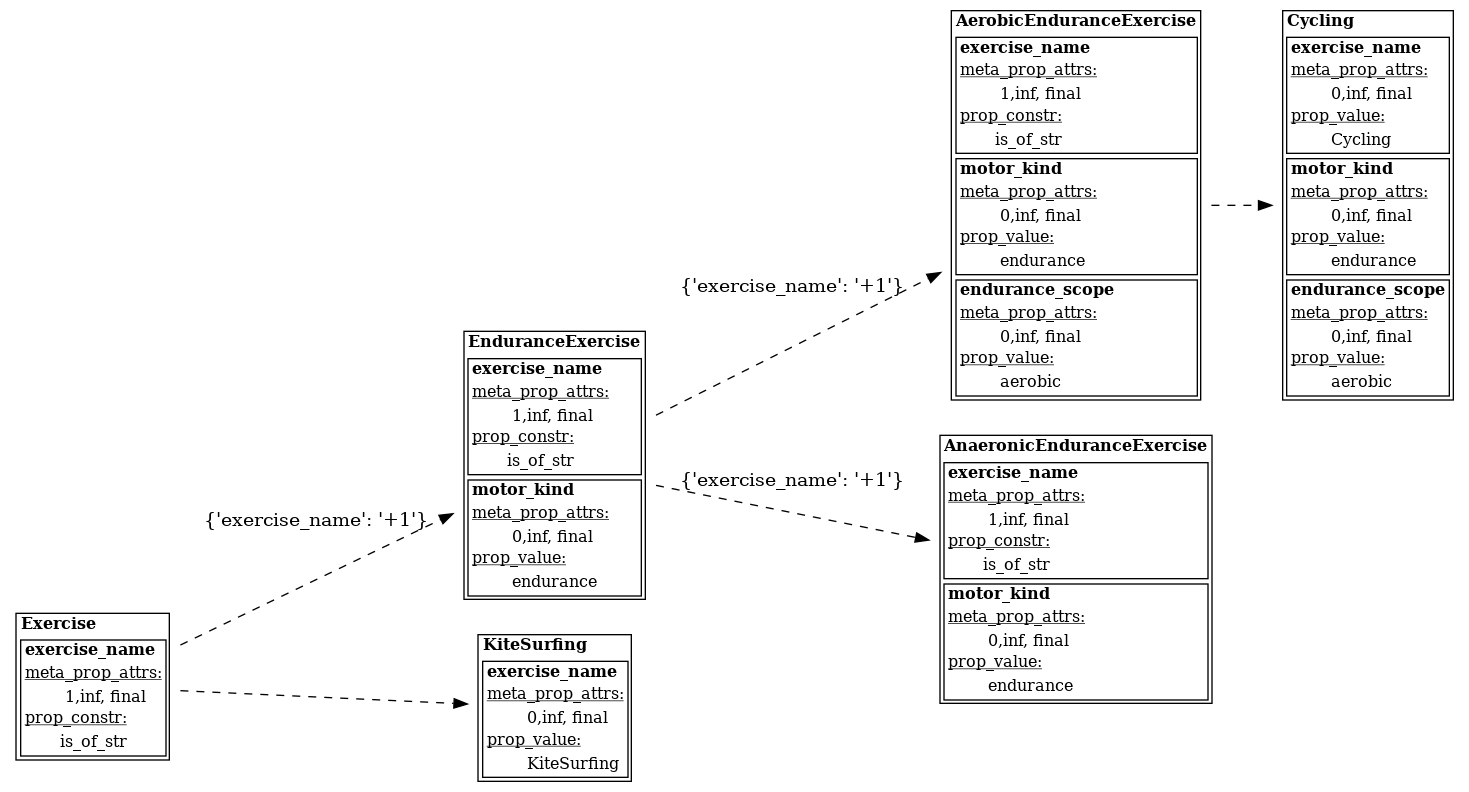
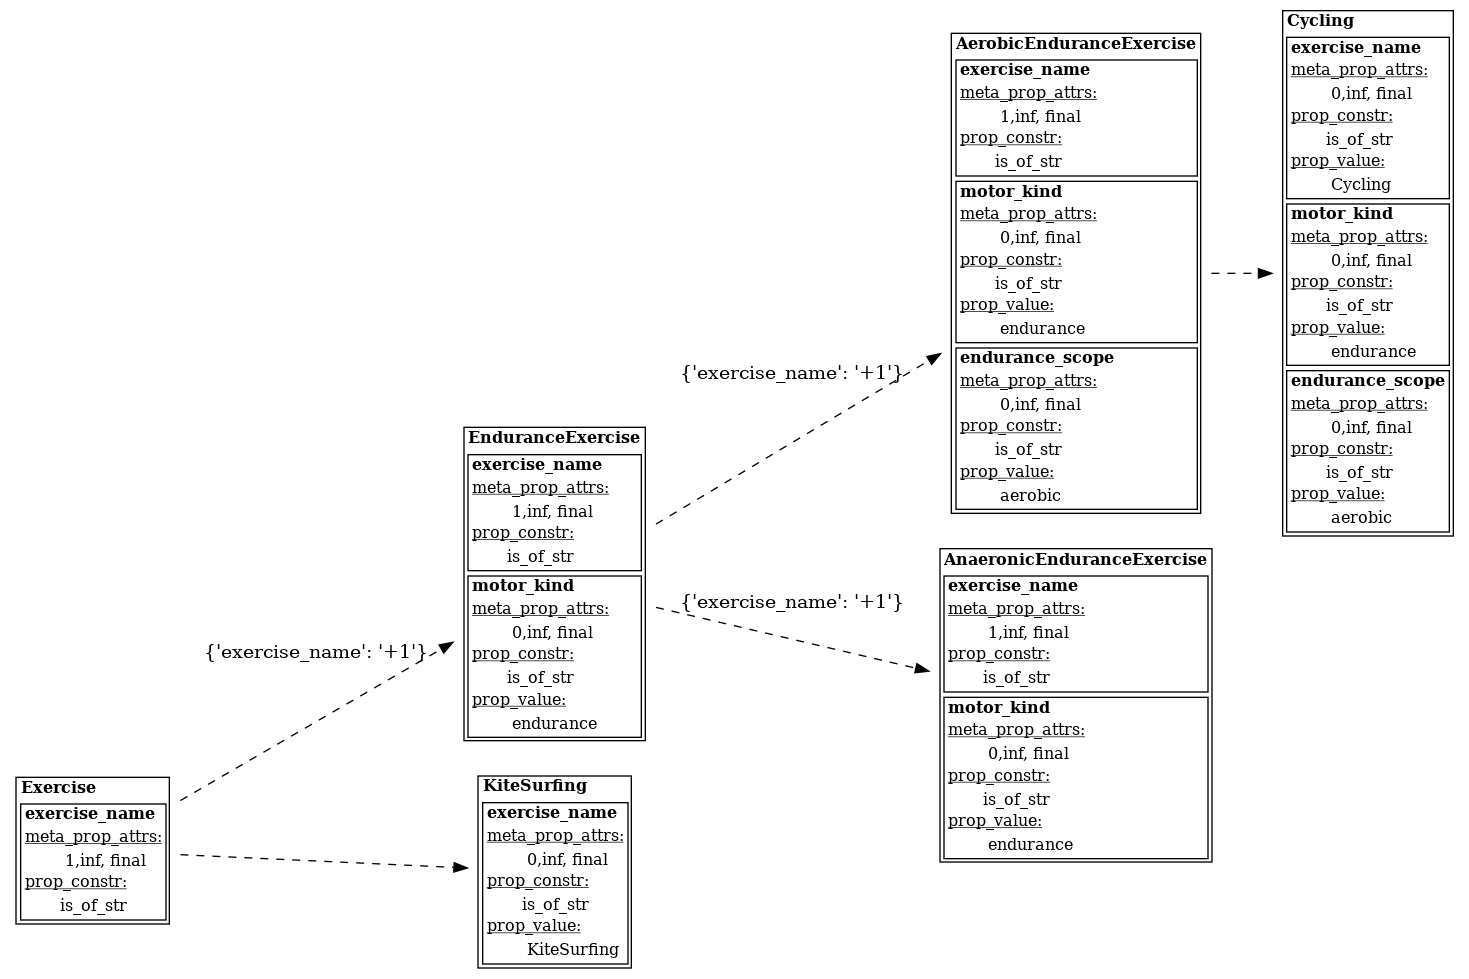
Adjusting Template and viz examples

diff --git a/multilevel_py/viz_templates/clabject.jinja2.html b/multilevel_py/viz_templates/clabject.jinja2.html
@@ -40,18 +40,21 @@
                     <td align='left'><u>meta_prop_attrs:</u></td>
                 </tr>
                 {{prop_attr(prop)}}
-                {% if prop.prop_value %}
-                    <tr>
-                        <td align='left'><u>prop_value:</u></td>
-                    </tr>
-                    {{value(prop)}}
-                {% else %}
+
+                {% if prop.constraints %}
                     <tr>
                         <td align='left'><u>prop_constr:</u></td>
                     </tr>
                     {{constraints(prop.constraints, "") }}
+                {% endif %}
 
-                {% endif %}}
+                {% if prop.prop_value is not none %}
+                <tr>
+                    <td align='left'><u>prop_value:</u></td>
+                </tr>
+                {{value(prop)}}
+                {% endif %}
+
                 {% if prop.re_init_prop_constr is not none %}
                         <tr>
                             <td align='left'><u>re_init_constr:</u></td>

diff --git a/examples/strength_chain.py b/examples/strength_chain.py
@@ -8,11 +8,11 @@ def model_snippet():
     Exercise.define_props([prop_exercise_name])
 
     StrengthExercise = Exercise(name="StrengthExercise", speed_adjustments={"exercise_name": 1})
-    prop_motor_kind = create_clabject_prop(n="motor_kind", t=0, f='*', i_f=True, c=[], v="strength")
+    prop_motor_kind = create_clabject_prop(n="motor_kind", t=0, f='*', i_f=True, c=[is_str_constraint], v="strength")
     StrengthExercise.define_props([prop_motor_kind])
 
     def define_contraction_form(clabject, prop_value):
-        prop_contraction_form = create_clabject_prop(n="contraction_form", t=0, f='*', i_f=True, c=[], v=prop_value)
+        prop_contraction_form = create_clabject_prop(n="contraction_form", t=0, f='*', i_f=True, c=[is_str_constraint], v=prop_value)
         clabject.define_props([prop_contraction_form])
 
     StaticStrengthExercise = StrengthExercise(name="StaticStrengthExercise", speed_adjustments={"exercise_name": 1})
@@ -22,7 +22,7 @@ def model_snippet():
     define_contraction_form(StaticStrengthExercise, "dynamic")
 
     def define_contraction_phase(clabject, prop_value):
-        prop_contraction_phase = create_clabject_prop(n="contraction_phase", t=0, f='*', i_f=True, c=[], v=prop_value)
+        prop_contraction_phase = create_clabject_prop(n="contraction_phase", t=0, f='*', i_f=True, c=[is_str_constraint], v=prop_value)
         clabject.define_props([prop_contraction_phase])
 
     ConcentricStrengthExercise = DynamicStrengthExercise(name="ConcentricStrengthExercise", speed_adjustments={"exercise_name": 1})
@@ -41,5 +41,6 @@ def model_snippet():
     ConcentricDeadlift = ConcentricStrengthExercise(name="ConcentricDeadlift", init_props={
         "exercise_name": "ConcentricDeadlift"})
 
+    hidden_root = False
     viz_name = str(Path(__file__).stem)
-    return Exercise, viz_name
+    return Exercise, viz_name, hidden_root

diff --git a/examples/endurance_chain.py b/examples/endurance_chain.py
@@ -8,11 +8,11 @@ def model_snippet():
     Exercise.define_props([prop_exercise_name])
 
     EnduranceExercise = Exercise(name="EnduranceExercise", speed_adjustments={"exercise_name": 1})
-    prop_motor_kind = create_clabject_prop(n="motor_kind", t=0, f='*', i_f=True, c=[], v="endurance")
+    prop_motor_kind = create_clabject_prop(n="motor_kind", t=0, f='*', i_f=True, c=[is_str_constraint], v="endurance")
     EnduranceExercise.define_props([prop_motor_kind])
 
     def define_energy_supply(clabject, prop_value):
-        prop_energy_supply = create_clabject_prop(n="endurance_scope", t=0, f='*', i_f=True, c=[], v=prop_value)
+        prop_energy_supply = create_clabject_prop(n="endurance_scope", t=0, f='*', i_f=True, c=[is_str_constraint], v=prop_value)
         clabject.define_props([prop_energy_supply])
 
     AerobicEnduranceExercise = EnduranceExercise(name="AerobicEnduranceExercise", speed_adjustments={"exercise_name": 1})
@@ -23,5 +23,6 @@ def model_snippet():
     KiteSurfing = Exercise(name="KiteSurfing", init_props={"exercise_name": "KiteSurfing"})
     cycling = AerobicEnduranceExercise(name="Cycling", init_props={"exercise_name": "Cycling"})
 
+    hidden_root = False
     viz_name = str(Path(__file__).stem)
-    return Exercise, viz_name
+    return Exercise, viz_name, hidden_root

diff --git a/examples/viz_examples.py b/examples/viz_examples.py
@@ -13,7 +13,7 @@ from plan_chain_composite_element import model_snippet as ms_6
 from endurance_chain import model_snippet as ms_7
 from strength_chain import model_snippet as ms_8
 
-model_snippets = [ms_4]
+model_snippets = [ms_8]
 
 from multilevel_py.viz import viz_classification_hierarchy
 
@@ -41,7 +41,7 @@ if __name__ == "__main__":
 
     print("Start plotting into " + str(output_dir))
     for model_snippet in model_snippets:
-        top_clabject, output_name = model_snippet()
+        top_clabject, output_name, hidden_root = model_snippet()
         viz_classification_hierarchy(top_clabject,
-                                     output_dir=output_dir, output_name=output_name, hidden_root=False,
+                                     output_dir=output_dir, output_name=output_name, hidden_root=hidden_root,
                                      format=format, font=font, fontsize=fontsize, by_level=False)

diff --git a/multilevel_py/clabject_prop.py b/multilevel_py/clabject_prop.py
@@ -245,7 +245,7 @@ class MethodProp(BaseClabjectProp):
     def get_viz_value_str(self):
         res_str = str(self.prop_value)
         if hasattr(self.prop_value, "__impl_origin__"):
-            res_str = "Implementation from " + self.prop_value.__impl_origin__ + ":" + \
+            res_str = "Implementation from " + self.prop_value.__impl_origin__ + ": " + \
                       self.prop_value.__name__ + str(sig(self.prop_value))
 
         return res_str

diff --git a/examples/deadlift_chain.py b/examples/deadlift_chain.py
@@ -60,5 +60,6 @@ def model_snippet():
     realisedDeadlift = ParameterisedDeadlift(name="RealisedDeadlift", init_props={"weight_load": realisedWeightLoad},
                                              declare_as_instance=True)
 
+    hidden_root = True
     viz_name = str(Path(__file__).stem)
-    return DslRoot, viz_name
+    return DslRoot, viz_name, hidden_root

diff --git a/examples/plan_chain_simple_element.py b/examples/plan_chain_simple_element.py
@@ -2,5 +2,7 @@ def model_snippet():
 	from pathlib import Path
 	from plan_chain_common import model_snippet
 	top_clabject = model_snippet(sub_composite_hierarchy=False)
+
+	hidden_root = False
 	viz_name = str(Path(__file__).stem)
-	return top_clabject, viz_name
+	return top_clabject, viz_name, hidden_root

diff --git a/examples/plan_chain_composite_element.py b/examples/plan_chain_composite_element.py
@@ -2,5 +2,7 @@ def model_snippet():
 	from pathlib import Path
 	from plan_chain_common import model_snippet
 	top_clabject = model_snippet(sub_composite_hierarchy=True)
+
+	hidden_root = False
 	viz_name = str(Path(__file__).stem)
-	return top_clabject, viz_name
+	return top_clabject, viz_name, hidden_root

diff --git a/examples/collie_final_extended_chain.py b/examples/collie_final_extended_chain.py
@@ -73,5 +73,6 @@ def model_snippet():
     print(lassie.make_noise()) # > Wuff - I'm a Collie
     print(derek.make_noise()) # Wuff I'm a GoldenRetriever
 
+    hidden_root = False
     viz_name = str(Path(__file__).stem)
-    return Breed, viz_name
+    return Breed, viz_name, hidden_root

diff --git a/examples/collie_extended_chain.py b/examples/collie_extended_chain.py
@@ -25,5 +25,6 @@ def model_snippet():
         init_props={"year_of_birth": date(year=2002, month=2, day=20)},
         declare_as_instance=True)
 
+    hidden_root = False
     viz_name = str(Path(__file__).stem)
-    return Breed, viz_name
+    return Breed, viz_name, hidden_root

diff --git a/examples/collie_chain_initial_example.py b/examples/collie_chain_initial_example.py
@@ -12,5 +12,6 @@ def model_snippet():
 
     lassie = Collie(name="Lassie", init_props={"age": 7}, declare_as_instance=True)
 
+    hidden_root = False
     viz_name = str(Path(__file__).stem)
-    return Breed, viz_name
+    return Breed, viz_name, hidden_root
